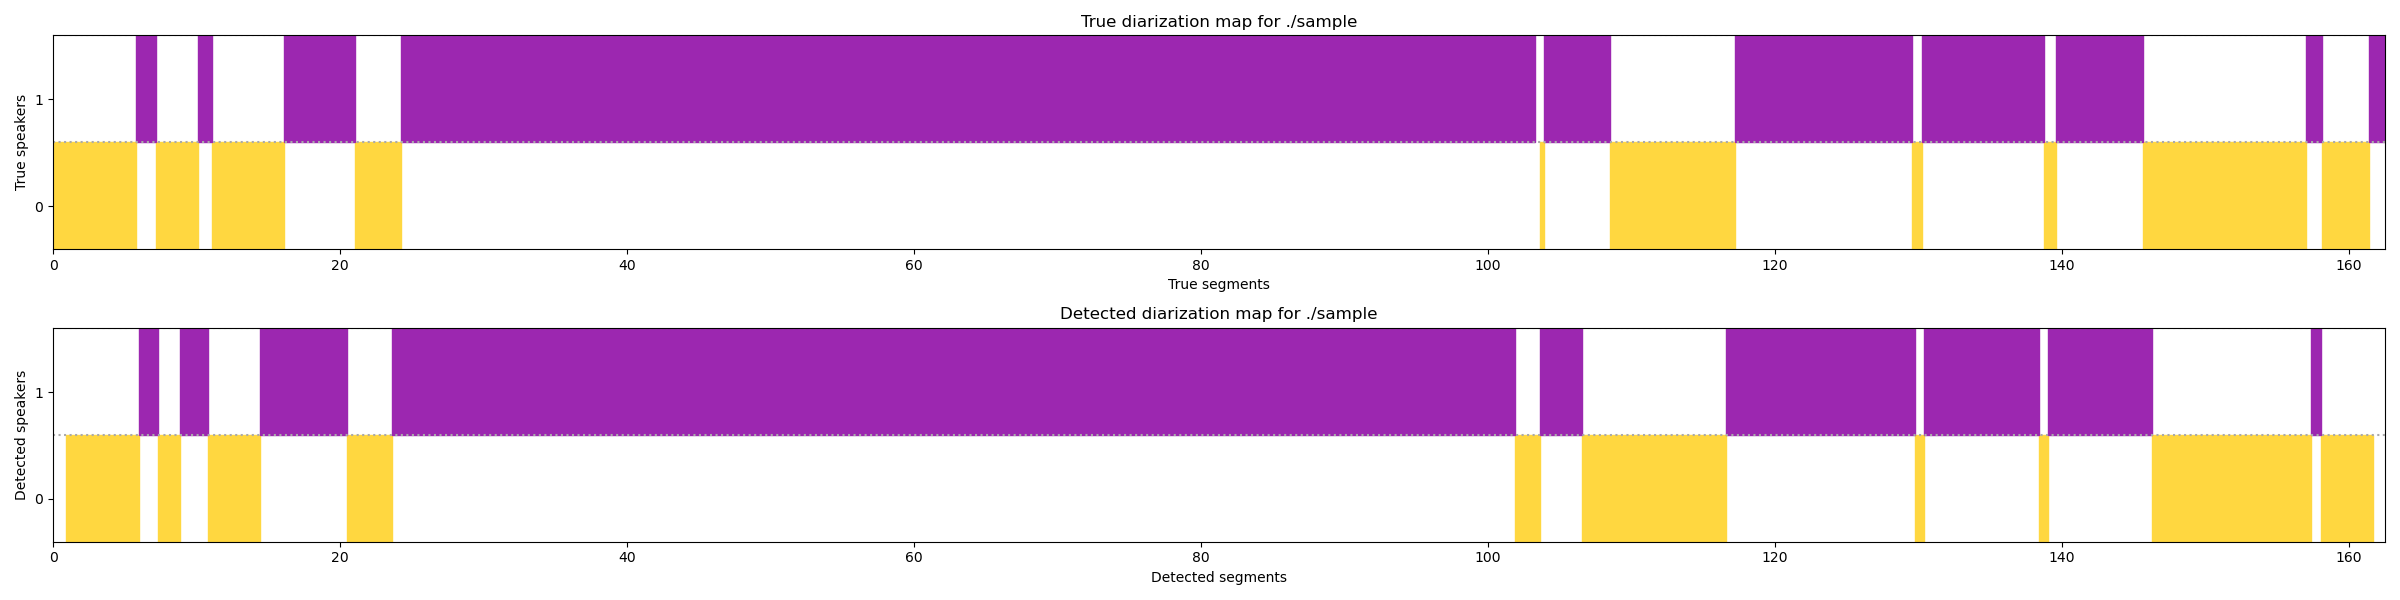
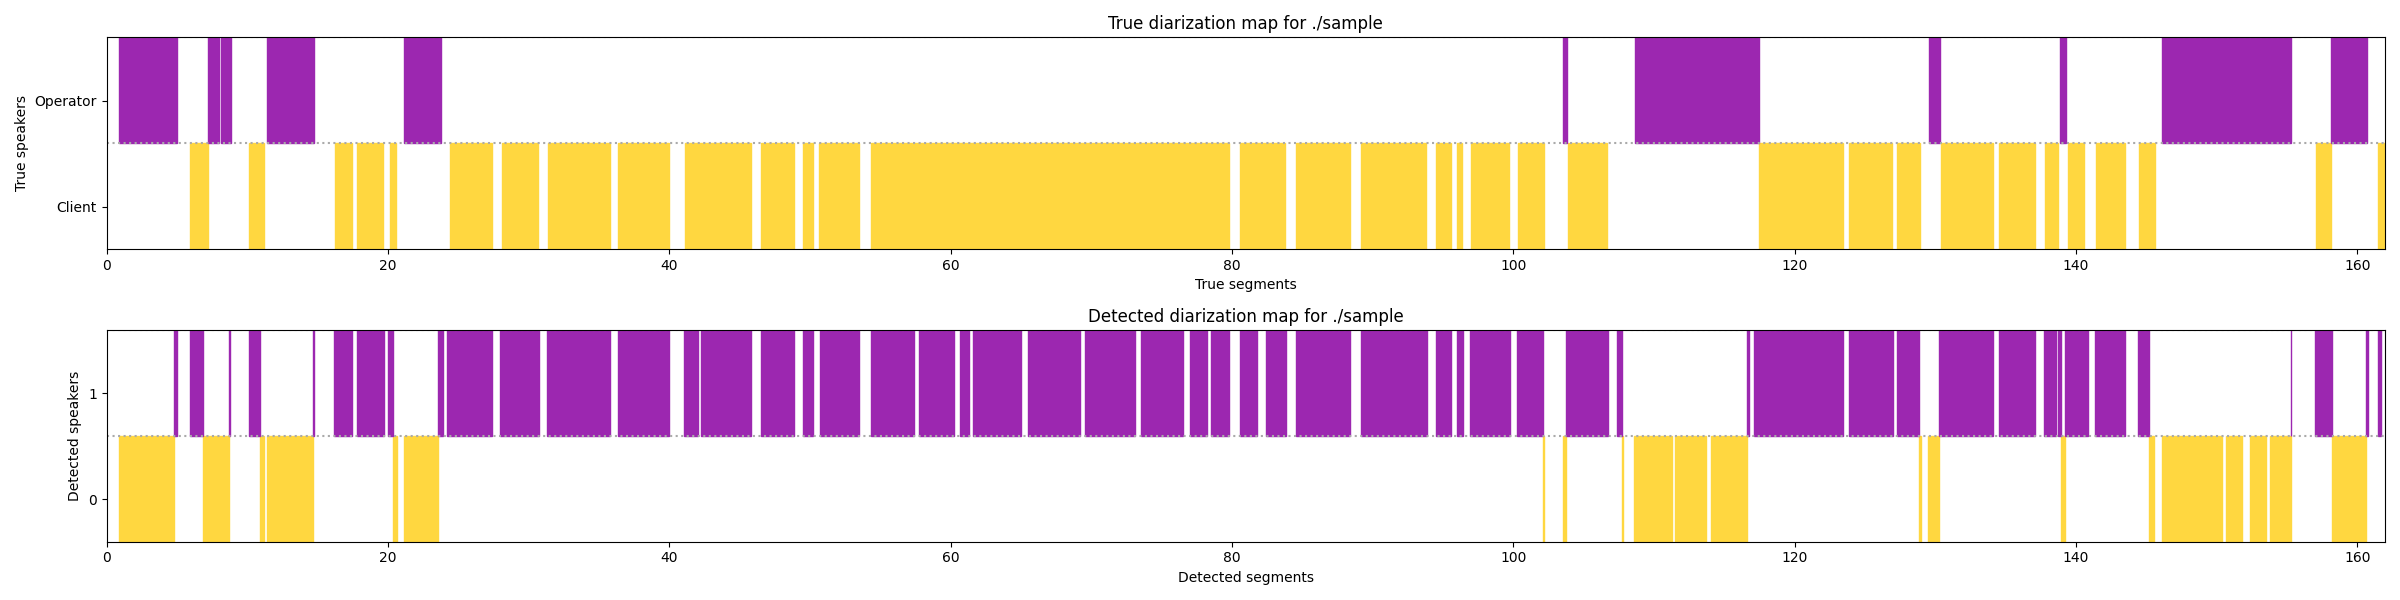
Replace VAD

diff --git a/embedding/new_utils.py b/embedding/new_utils.py
@@ -4,6 +4,7 @@ from datetime import datetime
 import librosa
 import numpy as np
 import tensorflow as tf
+import torch
 from pyannote.core import Segment, Annotation
 from pyannote.metrics.diarization import DiarizationErrorRate
 from tensorboard.plugins import projector
@@ -81,13 +82,21 @@ def find_wav(dir):
 
 def _vad(audio_path, sr):
     audio, _ = librosa.load(audio_path, sr=sr)
-    intervals = librosa.effects.split(audio, top_db=20)
-    audio_output = []
 
-    for sliced in intervals:
+    audio_name = audio_path.split('/')[-1]
+    protocol = {'uri': f'{audio_name}.wav', 'audio': audio_path}
+    sad = torch.hub.load('pyannote/pyannote-audio', 'sad', pipeline=True)
+    sad_scores = sad(protocol)
+
+    speech = []
+    for speech_region in sad_scores.get_timeline():
+        speech.append((int(round(speech_region.start, 3) * sr), int(round(speech_region.end, 3) * sr)))
+
+    audio_output = []
+    for sliced in speech:
         audio_output.extend(audio[sliced[0]:sliced[1]])
 
-    return np.array(audio_output), (intervals / sr * 1000).astype(int)
+    return np.array(audio_output), (np.array(speech) / sr * 1000).astype(int)
 
 
 def der(reference, hypothesis):
@@ -152,6 +161,45 @@ def linear_spectogram_from_wav(wav, hop_length, win_length, n_fft=1024):
     return linear.T
 
 
+def _remove_non_speech(speaker_slice, intervals):
+    speaker_slice_new = dict.fromkeys(speaker_slice.keys())
+
+    for speaker, timestamps_list in sorted(speaker_slice.items()):
+        timestamps_list_new = []
+        for i, timestamp in enumerate(timestamps_list):
+            for speech in intervals:
+                timestamp_new = dict.fromkeys(['start', 'stop'])
+
+                if list(timestamp.values())[0] in range(*speech) and list(timestamp.values())[1] in range(*speech):
+                    timestamps_list_new.append(timestamp)
+                    continue
+
+                if speech[0] in range(*timestamp.values()) and speech[1] in range(*timestamp.values()):
+                    timestamp_new['start'] = speech[0]
+                    timestamp_new['stop'] = speech[1]
+
+                    timestamps_list_new.append(timestamp_new)
+                    continue
+
+                if timestamp['start'] in range(*speech):
+                    timestamp_new['start'] = timestamp['start']
+                    timestamp_new['stop'] = speech[1]
+
+                    timestamps_list_new.append(timestamp_new)
+                    continue
+
+                if timestamp['stop'] in range(*speech):
+                    timestamp_new['start'] = speech[0]
+                    timestamp_new['stop'] = timestamp['stop']
+
+                    timestamps_list_new.append(timestamp_new)
+                    continue
+
+        speaker_slice_new[speaker] = timestamps_list_new
+
+    return speaker_slice_new
+
+
 def result_map(intervals, predicted_labels):
     # Speaker embedding every ? ms
     time_spec_rate = 1_000 * (1.0 / consts.slide_window_params.embedding_per_second) * (
@@ -183,15 +231,13 @@ def result_map(intervals, predicted_labels):
             speaker_slice[speaker][i]['start'] = s
             speaker_slice[speaker][i]['stop'] = e
 
-    return speaker_slice
+    return _remove_non_speech(speaker_slice, intervals)
 
 
 def save_and_report(plot, result_map, der=None, dir=consts.audio_dir):
-    # Make checkpoint
     checkpoint_dir = os.path.join(dir, f'{datetime.now():%Y%m%dT%H%M%S}')
     os.mkdir(checkpoint_dir)
 
-    # Write result segments and DER in file
     with open(os.path.join(checkpoint_dir, consts.result_map_file), 'w') as result:
         plot.save(checkpoint_dir)
 
@@ -204,7 +250,7 @@ def save_and_report(plot, result_map, der=None, dir=consts.audio_dir):
             for segment in result_map[cluster]:
                 result.write(f'{_beautify_time(segment["start"])} --> {_beautify_time(segment["stop"])}\n')
 
-        result.write(f'\n{der:.3f}')
+        result.write(f'\n{der:.4f}')
 
     print(f'Diarization done. All results saved in {checkpoint_dir}.')
 
